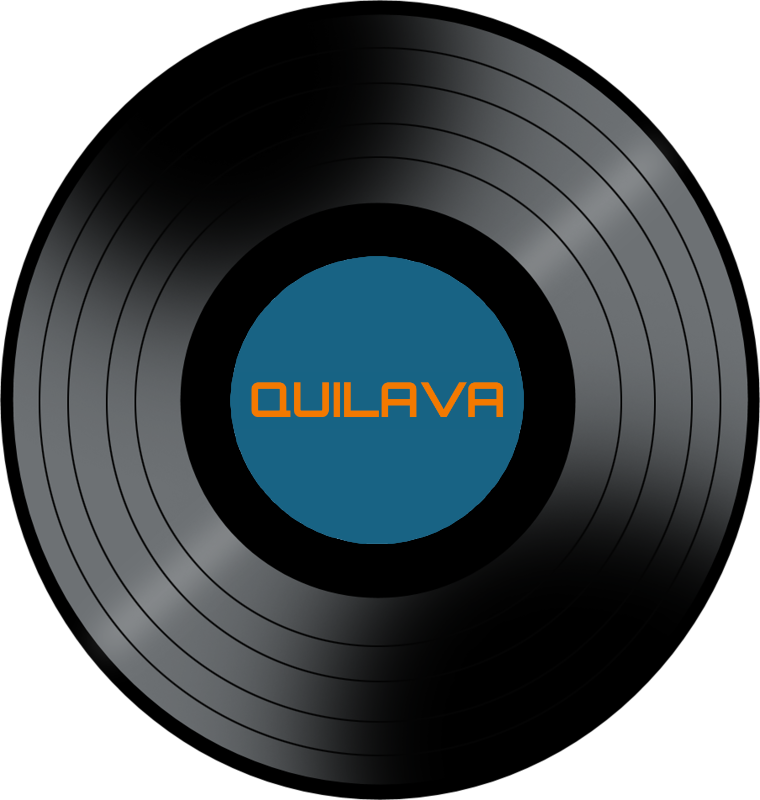
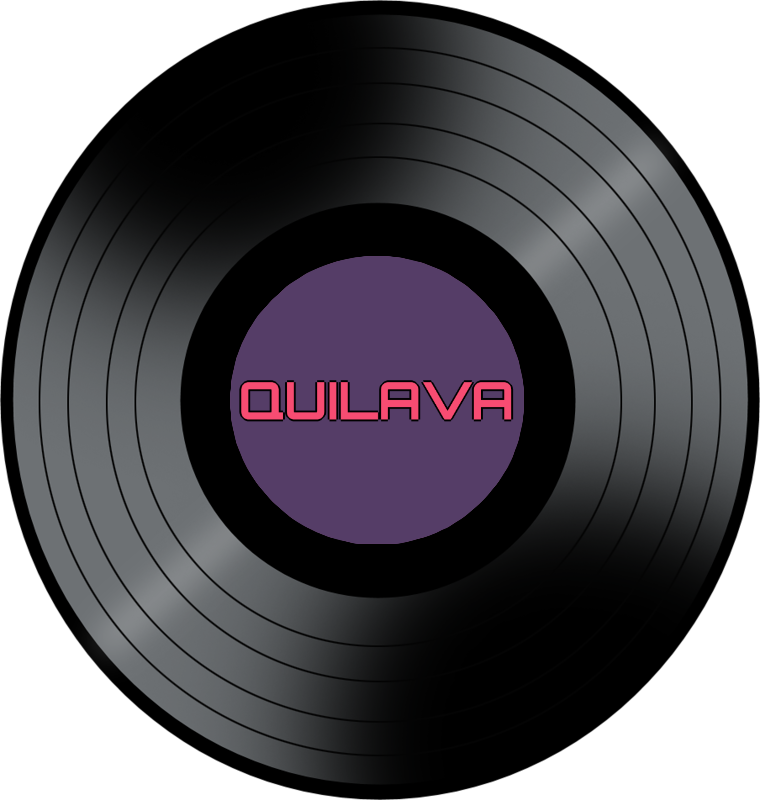
fixed footer, fixed mixes carousel, changed drum power to default off, moved search functions to search page

Changed region(s): [[0.3026, 0.3125, 0.6961, 0.6875]]

diff --git a/public/assets/css/style.css b/public/assets/css/style.css
@@ -7,10 +7,12 @@
     margin-bottom: 15px;
     background-color: #242582;
 }
+.navbar-brand {
+  font-family: 'Orbitron', sans-serif
+}
 
 .footer {
   position: absolute;
-  bottom: 0;
   width: 100%;
   height: 3.4rem;
   background-color: #242582;
@@ -18,9 +20,12 @@
   text-align: center;
   padding: 8px;
 }
-
+#artistNameBold {
+  color: #ffffff;
+}
 p {
   color: white;
+  line-height: 0.9;
 }
 
 h3 {
@@ -70,16 +75,10 @@ h6 {
     padding-bottom: 20px;
 }
 
-.carousel-inner{
+#carouselLanding {
   height: 450px;
   width: 450px;
   align-items: center;
-}
-
-.carousel-caption {
-  color: white;
-  font-weight: 900;
-  
 }
 
 #landingLowerContainer {
@@ -122,8 +121,6 @@ h6 {
   padding: 15px;
   text-align: center;
 }
-
-
 
 /* <<------ Drum Emulator ------>> */
 #drumulator {
@@ -278,14 +275,14 @@ h6 {
 }
 
 #artistUnderlined {
-  text-decoration: underline;
-  color: black;
+  /* text-decoration: underline; Should not underline text unless it's a link*/
+  color: rgb(255, 255, 255);
   /* text-shadow: 1px 0 0 #DD1301, 0 -1px 0 #DD1301, 0 1px 0 #DD1301, -1px 0 0 #DD1301; */
 }
 
 #profilePosts {
-  color: black;
-  text-decoration: underline;
+  color: rgb(255, 255, 255);
+  /* text-decoration: underline; Should not underline text unless it's a link*/
 }
 
 #boldInfo {
@@ -293,16 +290,16 @@ h6 {
 }
 
 #customAboutMe {
-  color: black;
+  color: rgb(255, 255, 255);
 }
 
 #editInfoBtn {
-  background-color: #f37900;
+  background-color: #F64c72;
   color:white;
 }
 
 #artistInfo {
-  color: #f37900;
+  color: #F64c72;
   text-shadow: 1px 0 0 black, 0 -1px 0 black, 0 1px 0 black, -1px 0 0 black;
   font-family: 'Orbitron', sans-serif;
   padding-left: 0px;
@@ -317,11 +314,13 @@ h6 {
 }
 
 #profilePic {
-  border: solid 3px #F37900;
+  border: solid 3px #99738E;
 }
 
-#profilePosts {
-  font-family: 'Times New Roman', Times, serif;
-  font-size: 30px;
-  color: #ffffff;
+#aboutArtistProfile {
+  color: #99738E;
+}
+
+#searchFunction {
+  padding-bottom: 100px;
 }

diff --git a/public/assets/js/drums.js b/public/assets/js/drums.js
@@ -14,7 +14,7 @@ var padEleven = new Audio("/assets/drum-sounds/clap-3.wav");
 var padTwelve = new Audio("/assets/drum-sounds/hat-3.wav");
 
 $("body").on("keydown", function (e) {
-  if ($("#checkbox").is(":checked") == true) {
+  if ($("#checkbox").is(":checked") == false) {
     e.stopImmediatePropagation();
   } else {
     var code = e.keyCode;
